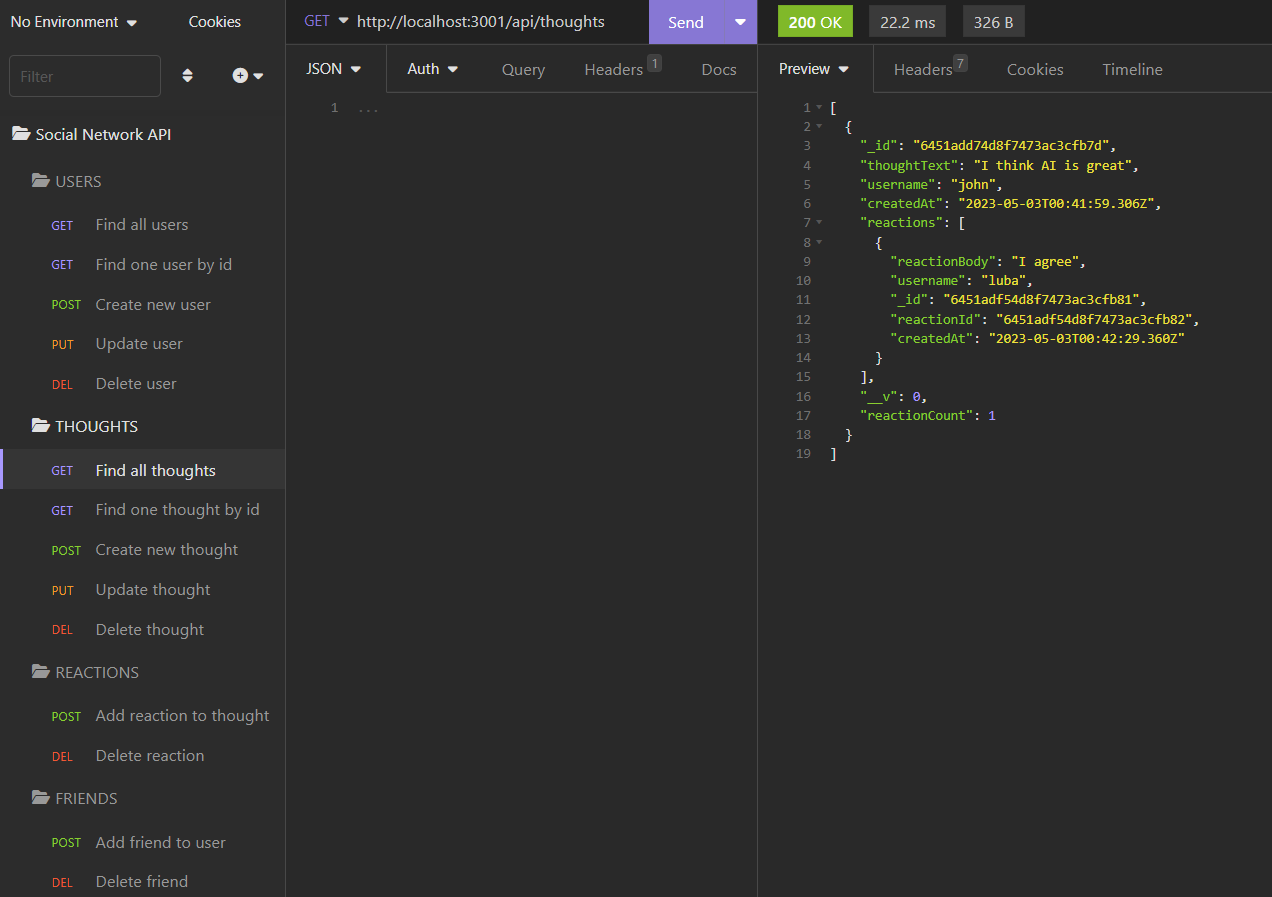
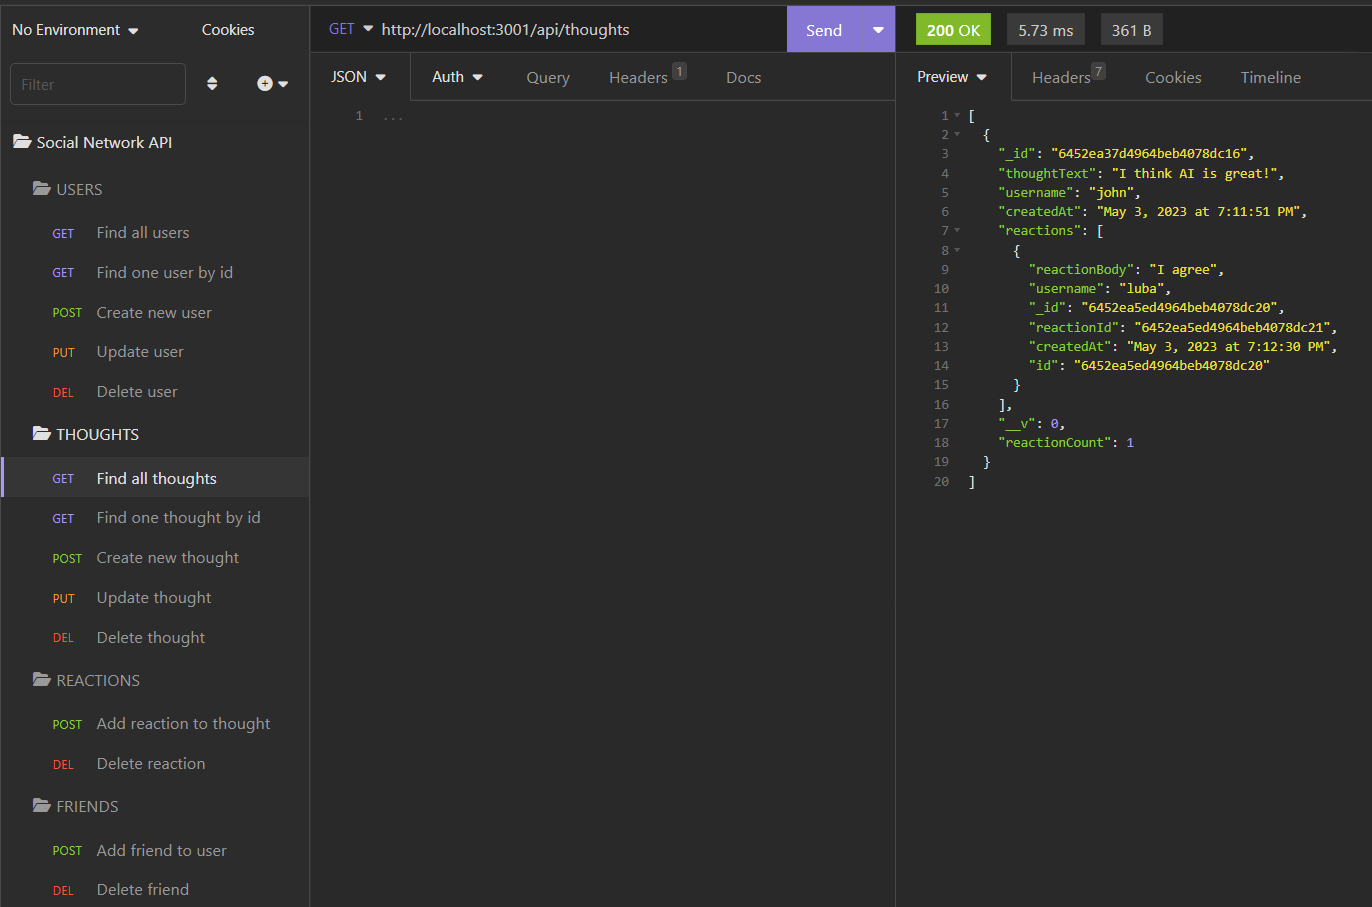
updated date formatting

diff --git a/models/Thought.js b/models/Thought.js
@@ -1,30 +1,37 @@
 const { Schema, Types, model } = require("mongoose");
+const formatDate = require("../utils/formatDate");
 
 // Schema to create reactions to thoughts
-const reactionSchema = new Schema({
-  reactionId: {
-    type: Schema.Types.ObjectId,
-    default: () => new Types.ObjectId(),
-  },
-  reactionBody: {
-    type: String,
-    required: true,
-    minlength: 1,
-    maxlength: 280,
-  },
-  username: {
-    type: String,
-    ref: "User",
-    required: true,
-  },
-  createdAt: {
-    type: Date,
-    default: Date.now,
-    get: function (timestamp) {
-      return new Date(timestamp).toLocaleString();
+const reactionSchema = new Schema(
+  {
+    reactionId: {
+      type: Schema.Types.ObjectId,
+      default: () => new Types.ObjectId(),
+    },
+    reactionBody: {
+      type: String,
+      required: true,
+      minlength: 1,
+      maxlength: 280,
+    },
+    username: {
+      type: String,
+      ref: "User",
+      required: true,
+    },
+    createdAt: {
+      type: Date,
+      default: Date.now,
+      // Format the timestamp
+      get: (timestamp) => formatDate(timestamp),
     },
   },
-});
+  {
+    toJSON: {
+      getters: true,
+    },
+  }
+);
 
 // Schema to create Thought model
 const thoughtSchema = new Schema(
@@ -38,9 +45,8 @@ const thoughtSchema = new Schema(
     createdAt: {
       type: Date,
       default: Date.now,
-      get: function (timestamp) {
-        return new Date(timestamp).toLocaleString();
-      },
+      // Format the timestamp
+      get: (timestamp) => formatDate(timestamp),
     },
     username: {
       type: String,
@@ -52,6 +58,7 @@ const thoughtSchema = new Schema(
   {
     toJSON: {
       virtuals: true,
+      getters: true,
     },
     id: false,
   }

diff --git a/utils/formatDate.js b/utils/formatDate.js
@@ -1,0 +1,11 @@
+module.exports = formatDate = (timestamp) => {
+  const date = new Date(timestamp);
+  const options = {
+    month: "long",
+    day: "numeric",
+    year: "numeric",
+  };
+  const dateString = date.toLocaleDateString("en-US", options);
+  const timeString = date.toLocaleTimeString("en-US", { hour12: true });
+  return `${dateString} at ${timeString}`;
+};
